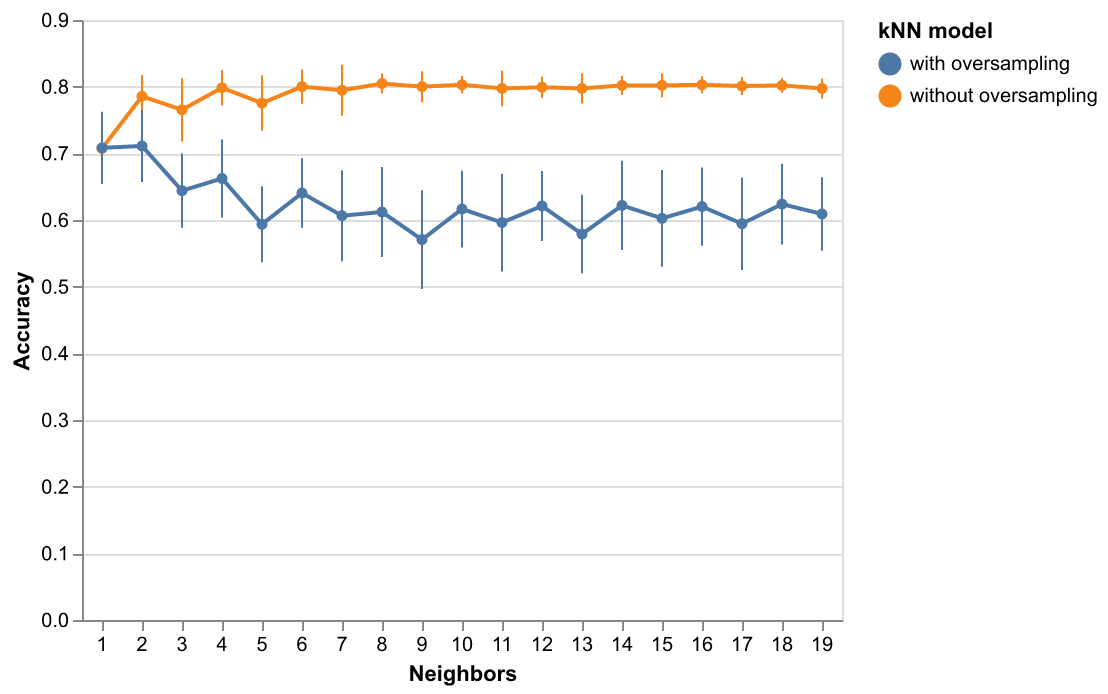
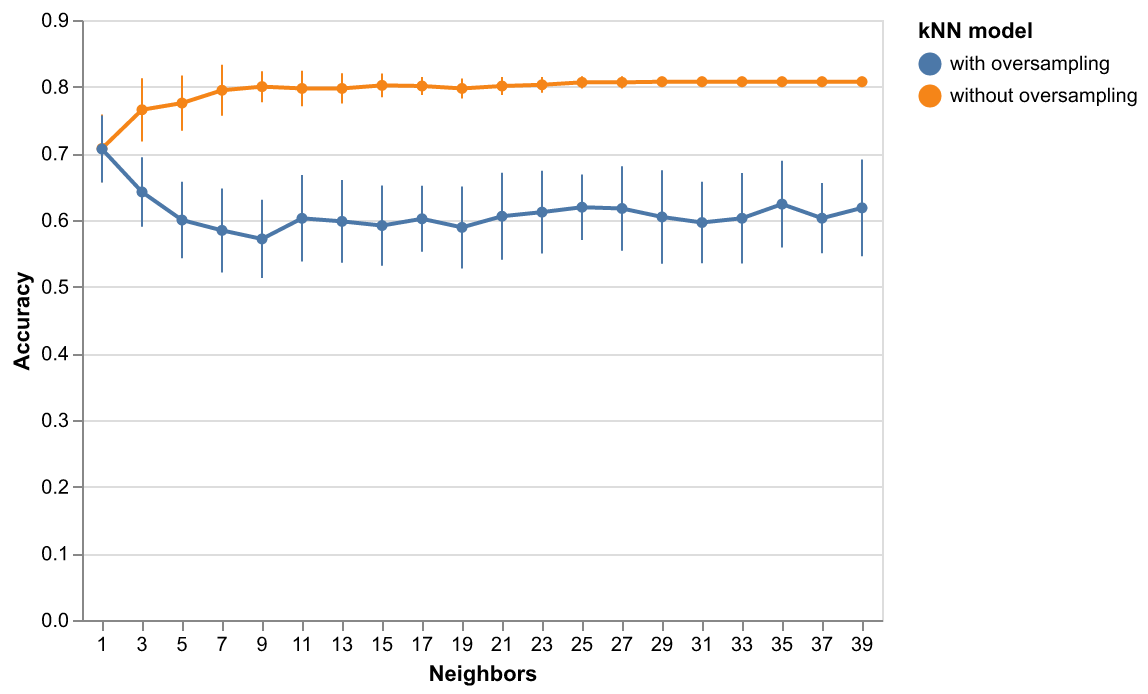
update report methodology and results

Changed region(s): [[0.0, 0.0, 1.0, 0.9078], [0.1227, 0.9078, 0.7671, 0.9986]]

diff --git a/scripts/select_knn_model.py b/scripts/select_knn_model.py
@@ -46,7 +46,7 @@ def main(x_train, y_train, preprocessor, table_results_to, figure_results_to, se
     }
     
     #Search the best k for knn
-    param_grid = {"n_neighbors": np.arange(1, 20, 1)}
+    param_grid = {"n_neighbors": np.arange(1, 40, 2)}
     df_cv_knn = run_knn_analysis(x_train, y_train, param_grid, 
                                  preprocessor=preprocessor, scoring=scoring_metrics)
 

diff --git a/README.md b/README.md
@@ -25,7 +25,6 @@ Wang, Doris - UBC-MDS
 
 Wu, Joey - UBC, MDS
 
-
 # Project Overview
 
 This project utilizes the Framingham Heart Study dataset to develop and evaluate two classification models, Logistic Regression and k-Nearest Neighbours (kNN), for coronary heart disease risk. The Framingham Heart Study is a comprehensive and long-term research project focused on understanding the factors contributing to cardiovascular health. Our model aims to utilize this dataset to identify the major risk factors to heart disease and effectively predict heart disease risk for individuals. The Logistic Regression model, optimized for recall, achieved a modest accuracy but excelled in identifying disease presence, albeit with many false positives. The kNN model, after addressing class imbalance through oversampling, showed improved recall but reduced accuracy. Both models underscore the need for further refinement in feature analysis and data preprocessing to enhance predictive accuracy, highlighting the potential for collaboration in healthcare to advance disease prediction methods.
@@ -112,8 +111,10 @@ docker compose up
    	--figure-results-to=results/figures
 
    # visualize model performance
-
-
+   python scripts/knn_eval.py \
+   	--x_test=data/processed/X_test.csv \
+   	--y_test=data/processed/y_test.csv \
+   	--trained_knn_model=results/models/imb_knn_pipeline.pickle --results-dir=results
 
    # build HTML report and copy build to docs folder
    jupyter-book build report
